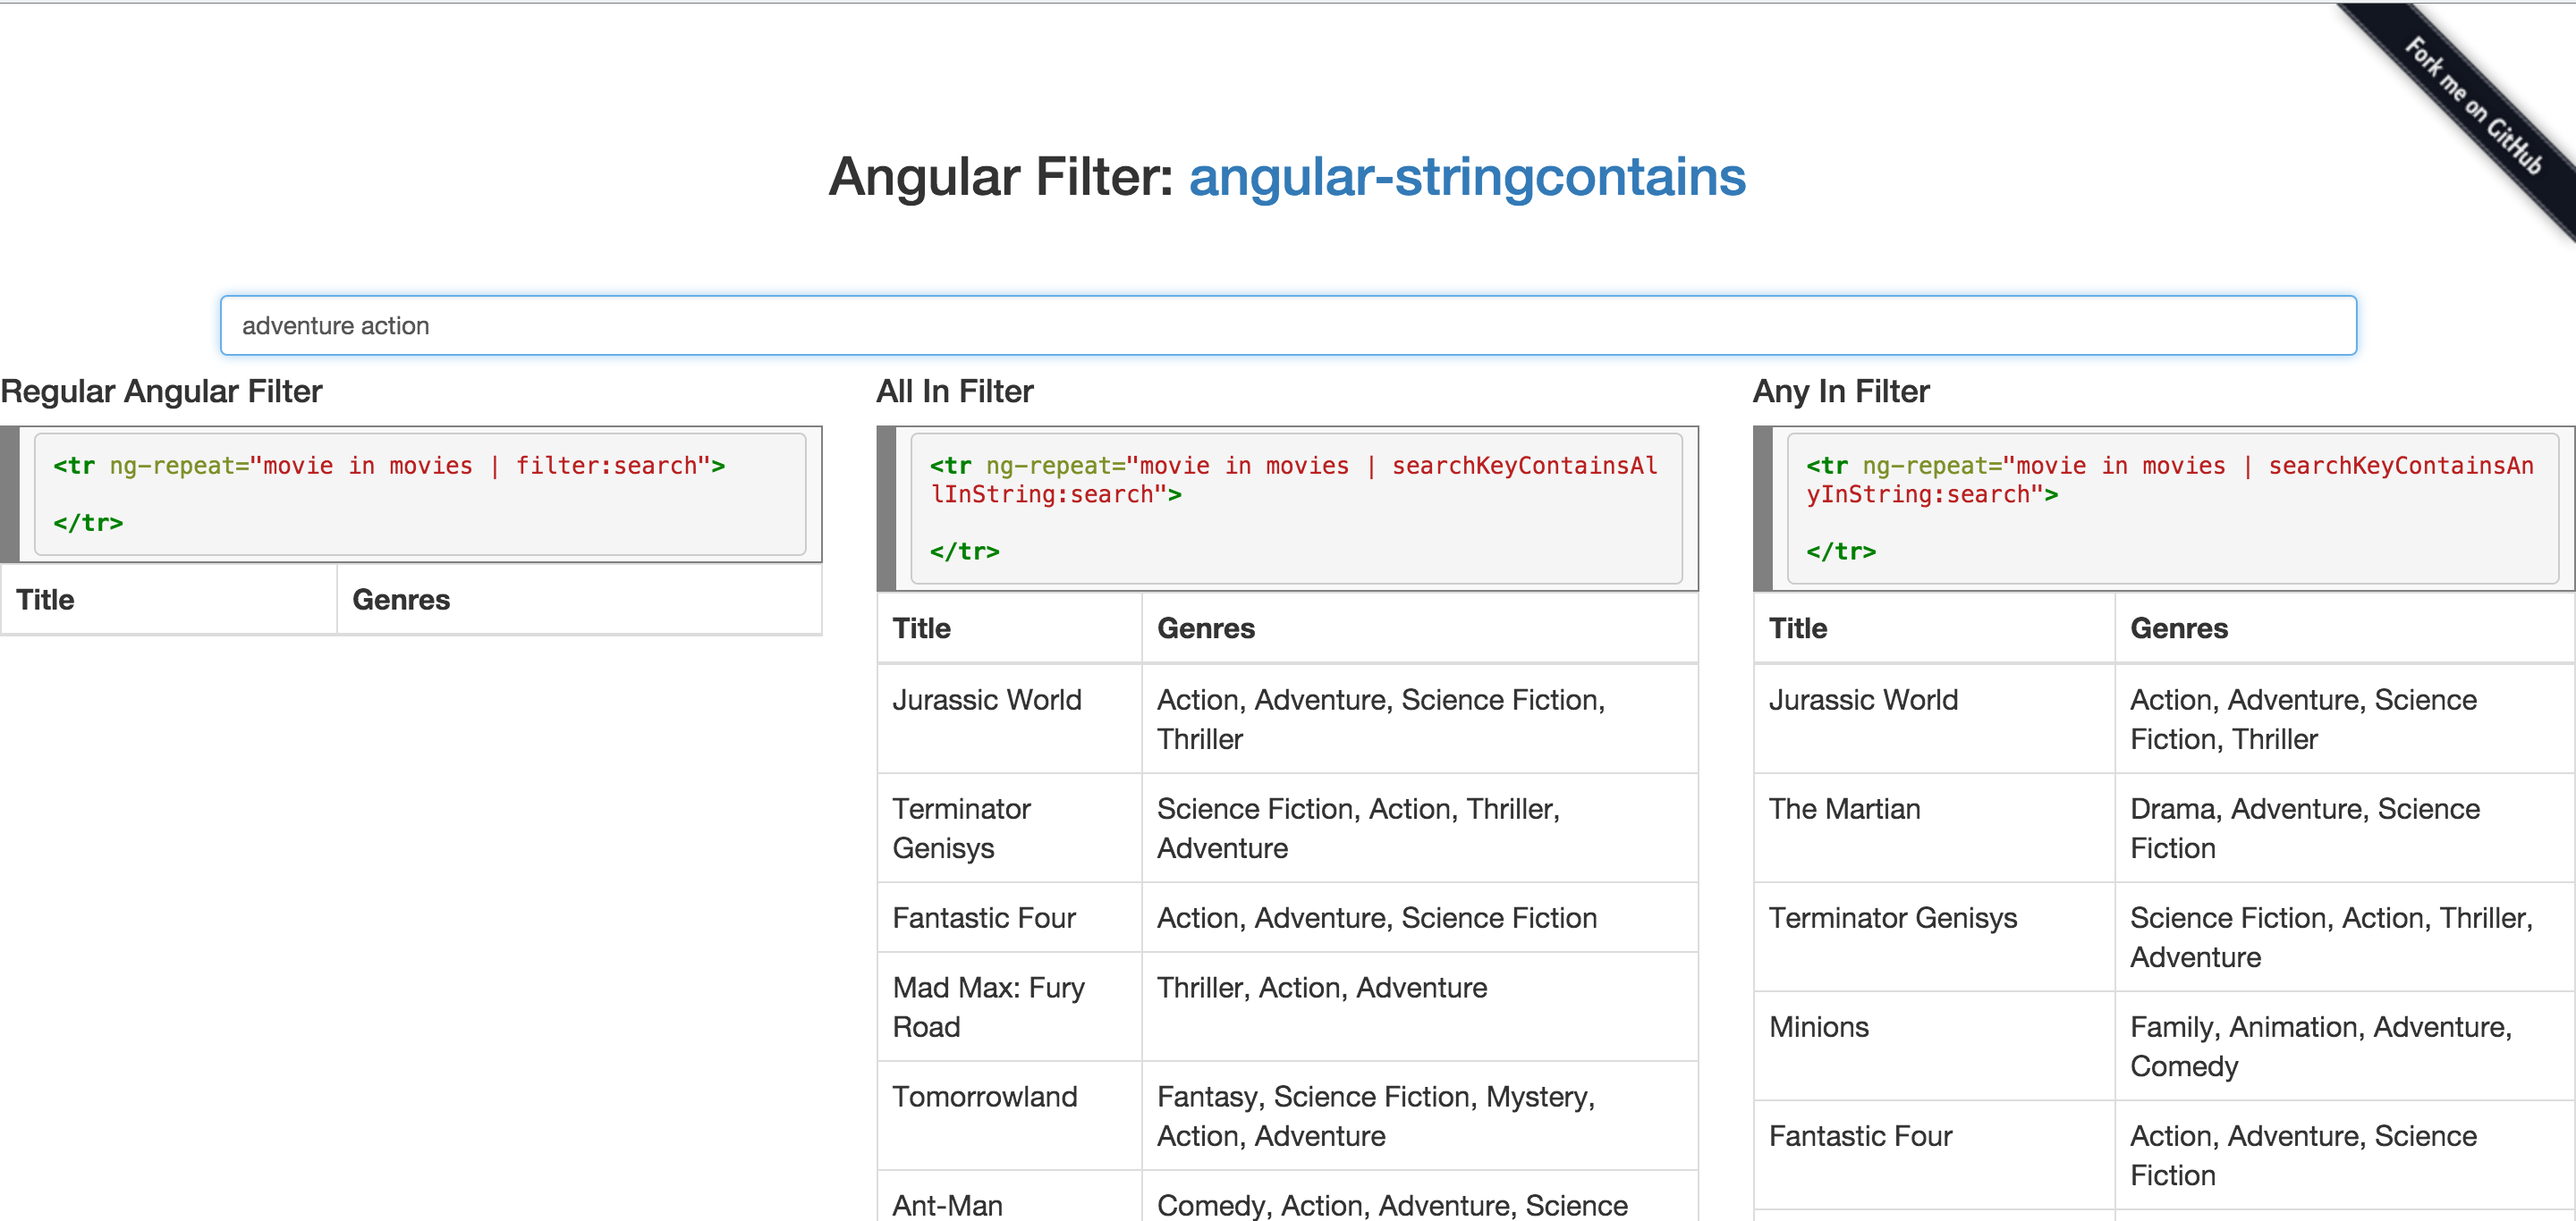
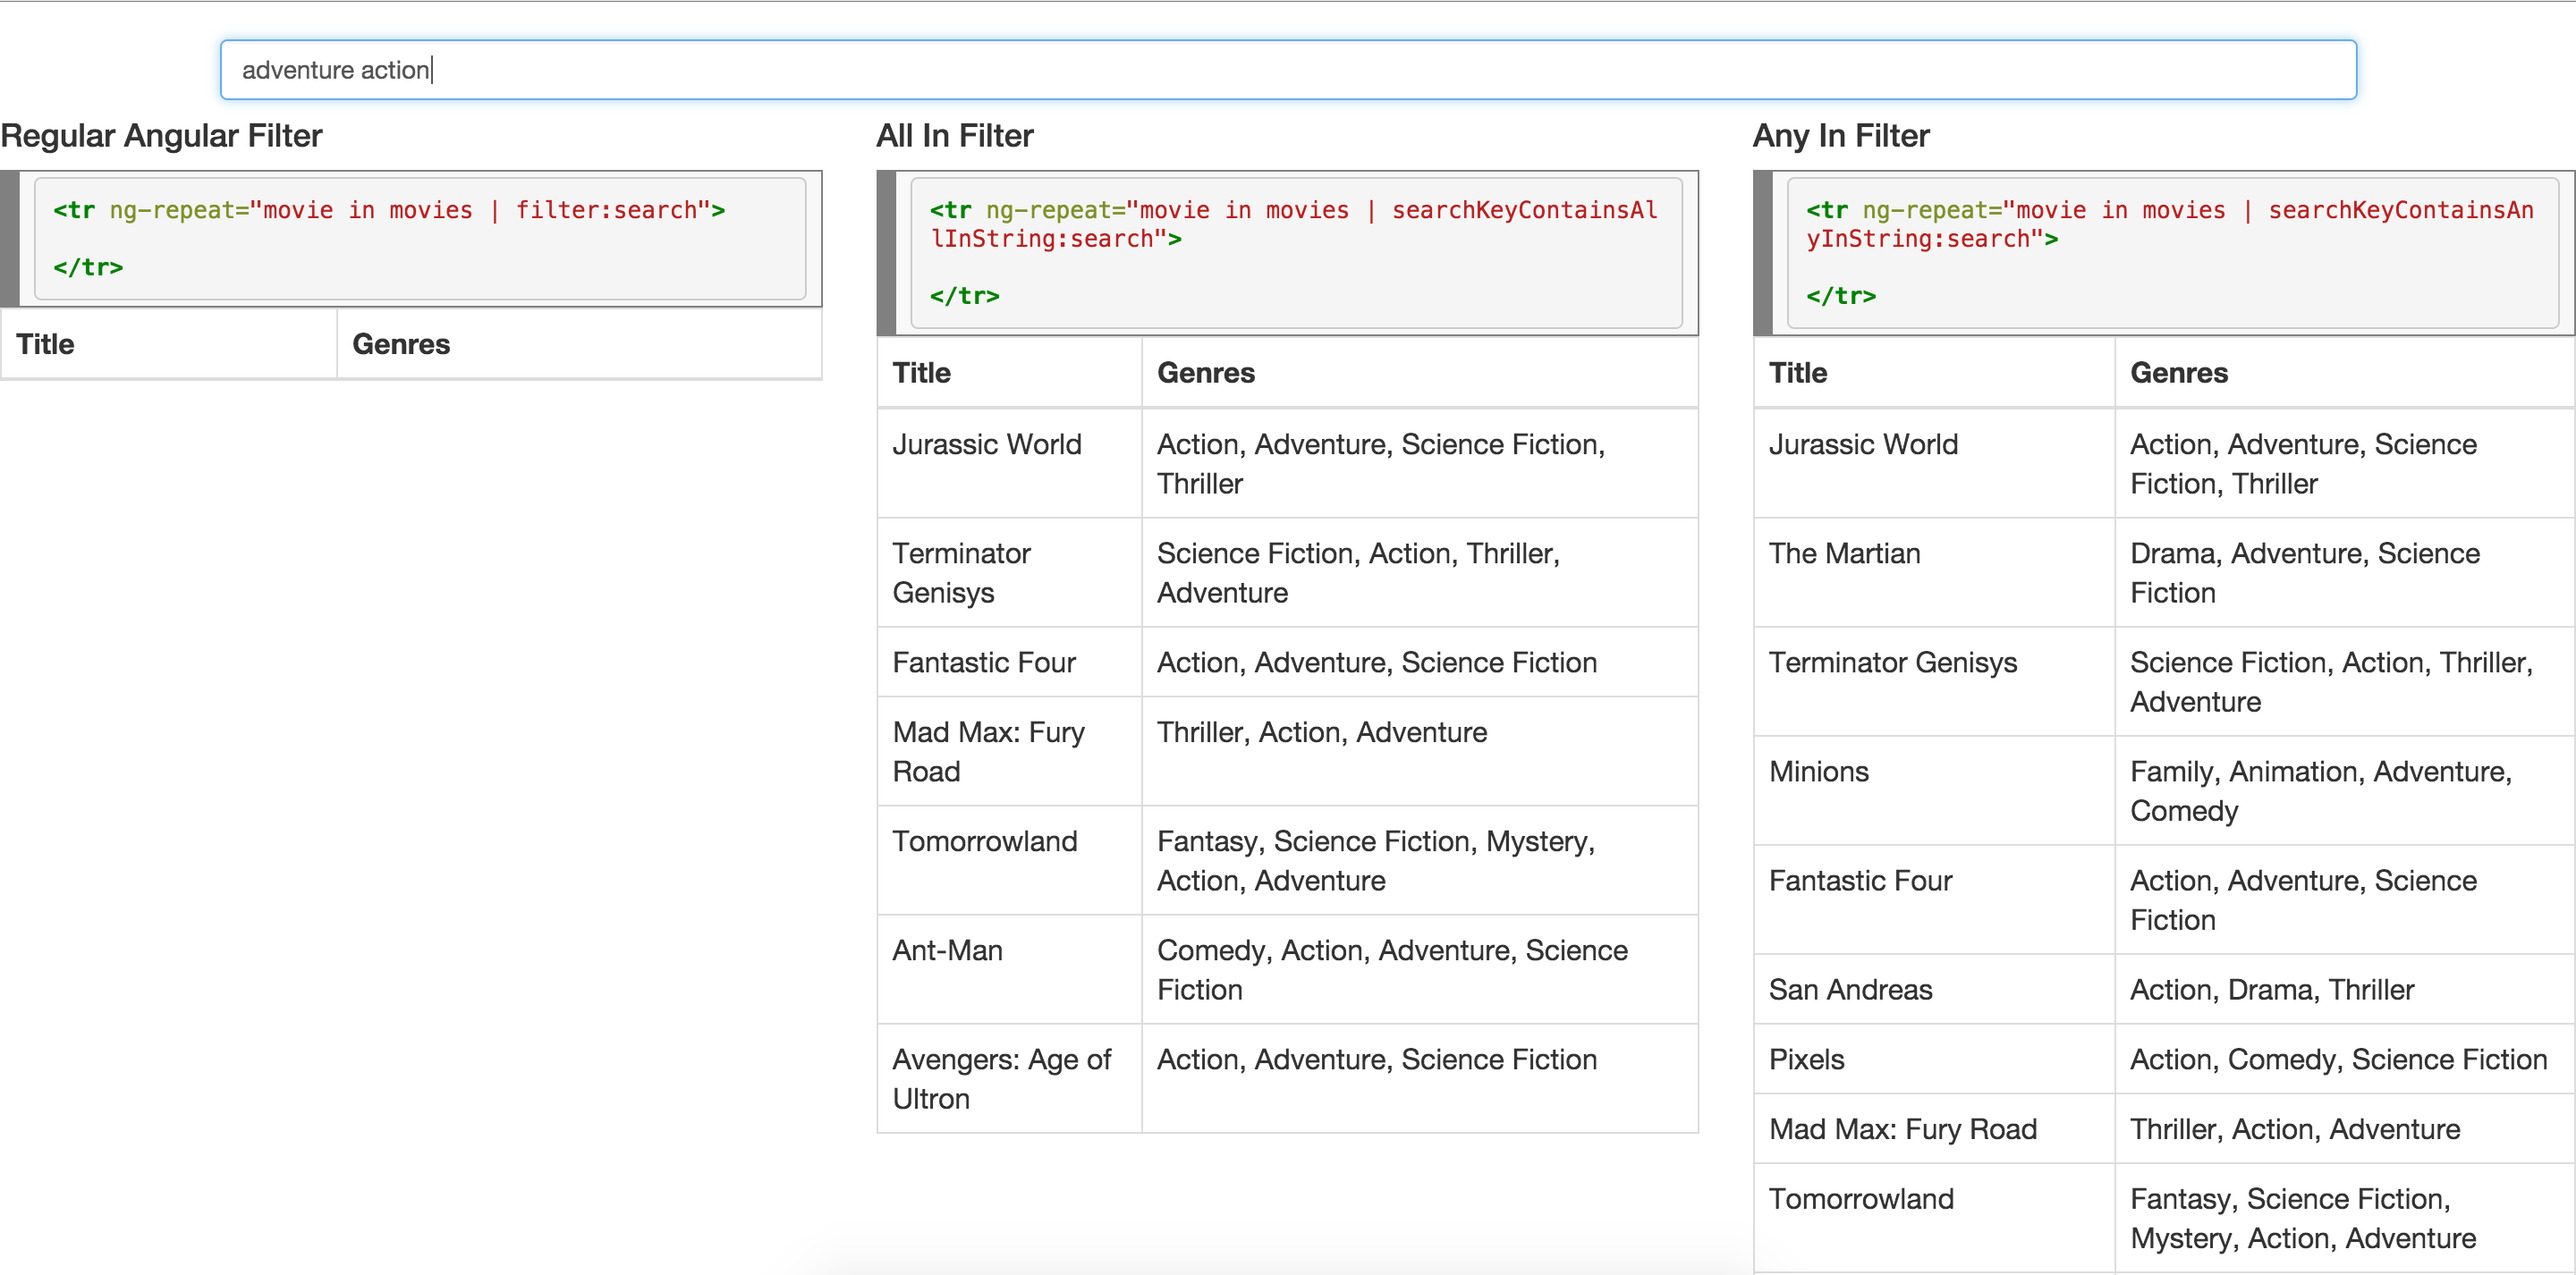
add comparison image to README.md

diff --git a/README.md b/README.md
@@ -45,6 +45,10 @@ object.stringToCheck = (object.name + " " + object.searchableProperty1 + " " + o
 View [live demo] (http://enzosv.github.io/angular-stringcontains/)
 
 View [example source code](https://github.com/enzosv/angular-stringcontains/tree/gh-pages)
+
+###Comparison
+![alt tag](https://raw.githubusercontent.com/enzosv/angular-stringcontains/master/comparison.png)
+
 ## License
 
 MIT
